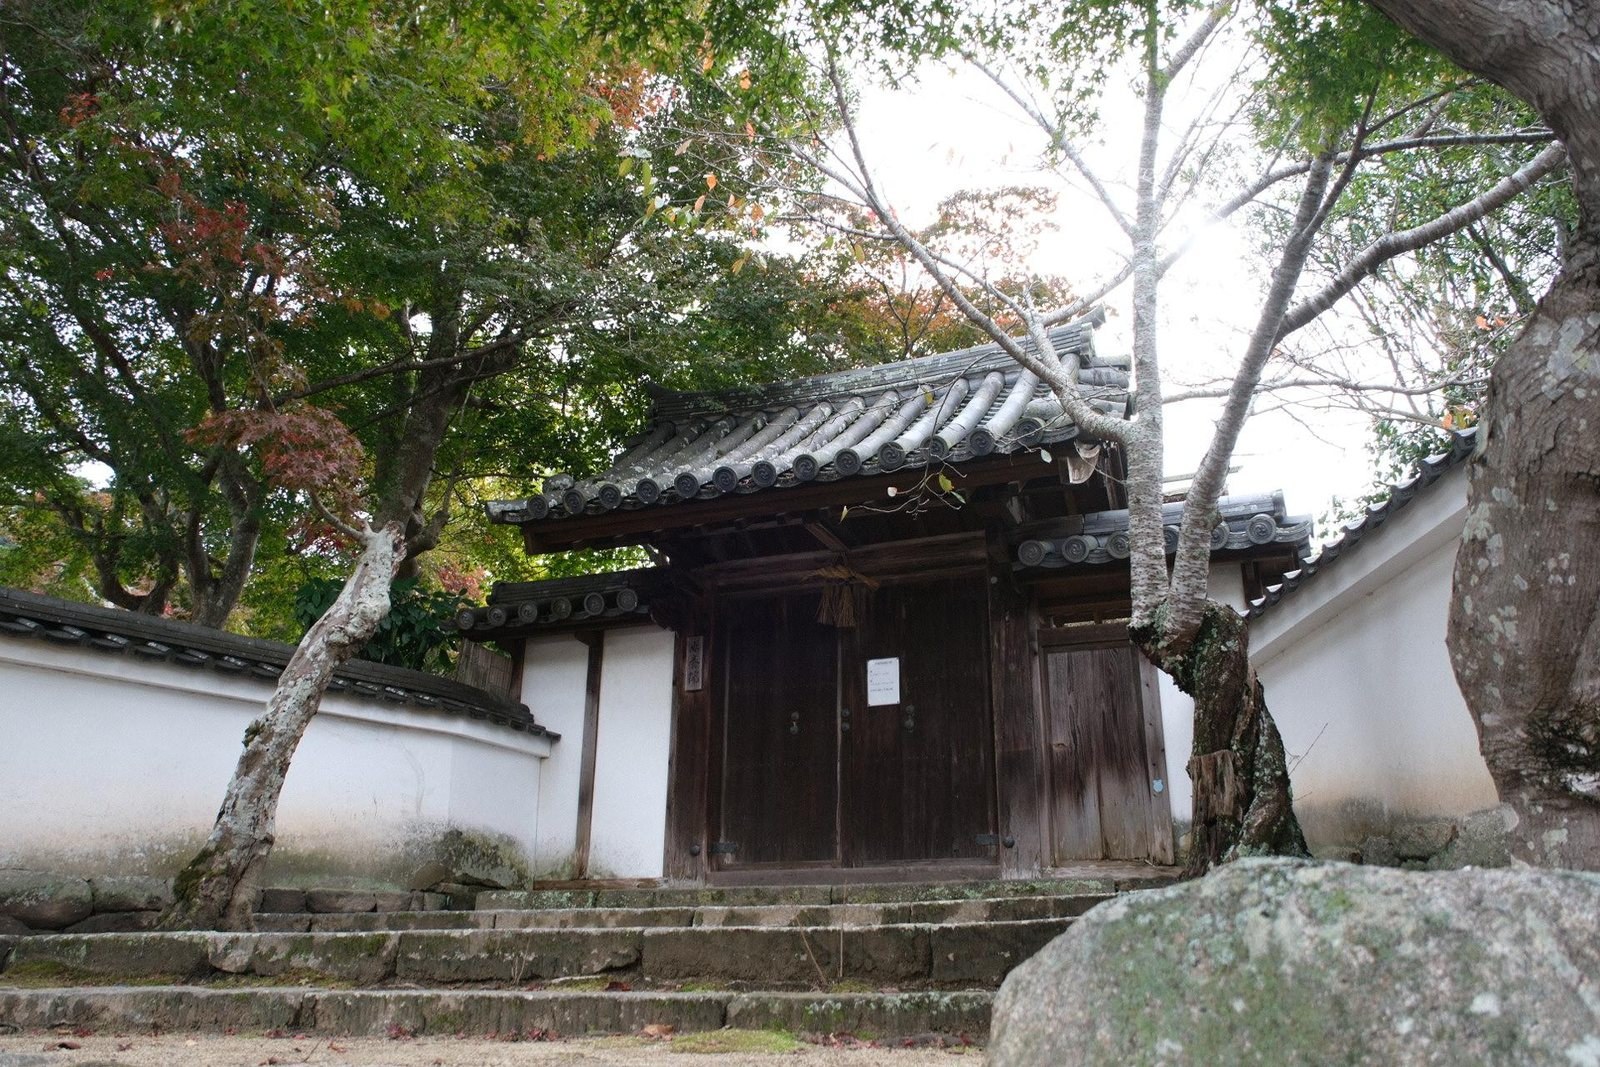
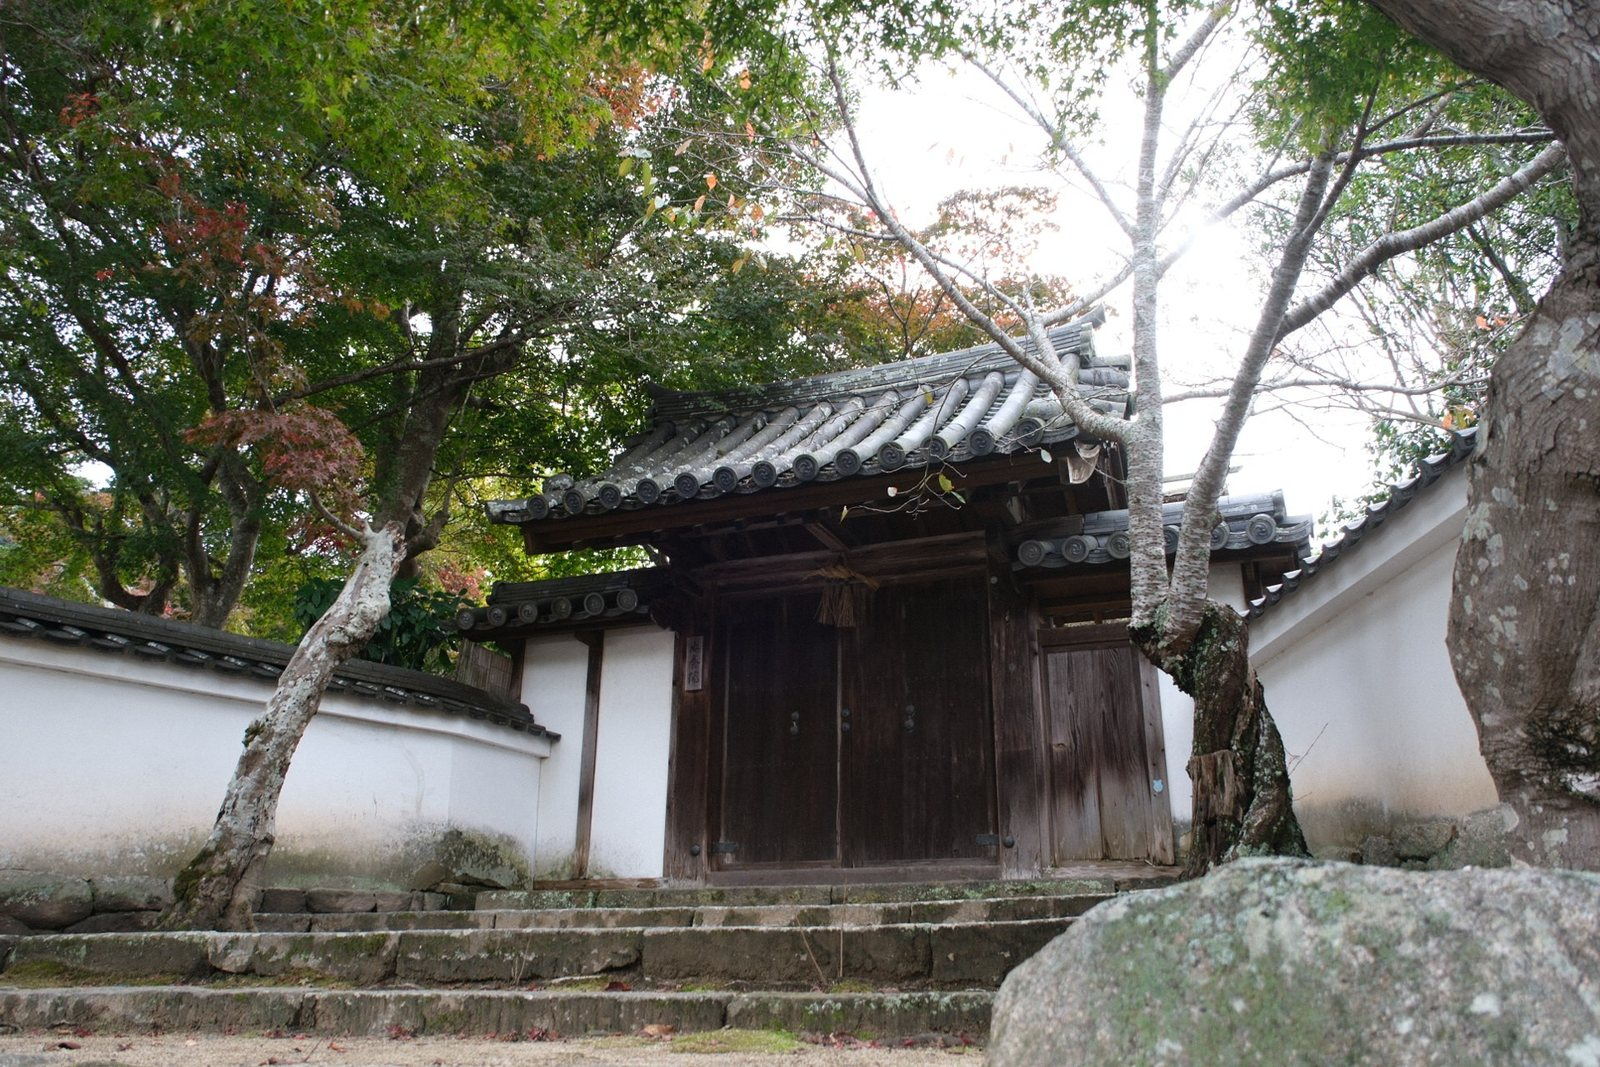
表門の写真から扉の張り紙を消去
Claude-Session: https://claude.ai/code/session_0185uNZ5KLtNXPQ2uT1EDMto

Changed region(s): [[0.5312, 0.6186, 0.5625, 0.6804]]

diff --git a/index.html b/index.html
@@ -170,7 +170,7 @@
         <p>書院の前にある珍しい手水鉢。手形が彫られており、水を手の中央に流すと、人差し指と中指の間から流れて岩の裏へ抜けます。</p>
       </article>
       <article class="garden-item">
-        <img class="item-photo" src="images/omotemon.jpg?v=2" alt="石段の上に建つ安養院の表門" loading="lazy">
+        <img class="item-photo" src="images/omotemon.jpg?v=3" alt="石段の上に建つ安養院の表門" loading="lazy">
         <h3>表門</h3>
         <p>太山寺仁王門から中門へ向かう参道を歩いて五分ほど、右手に安養院の表門があります。</p>
       </article>
